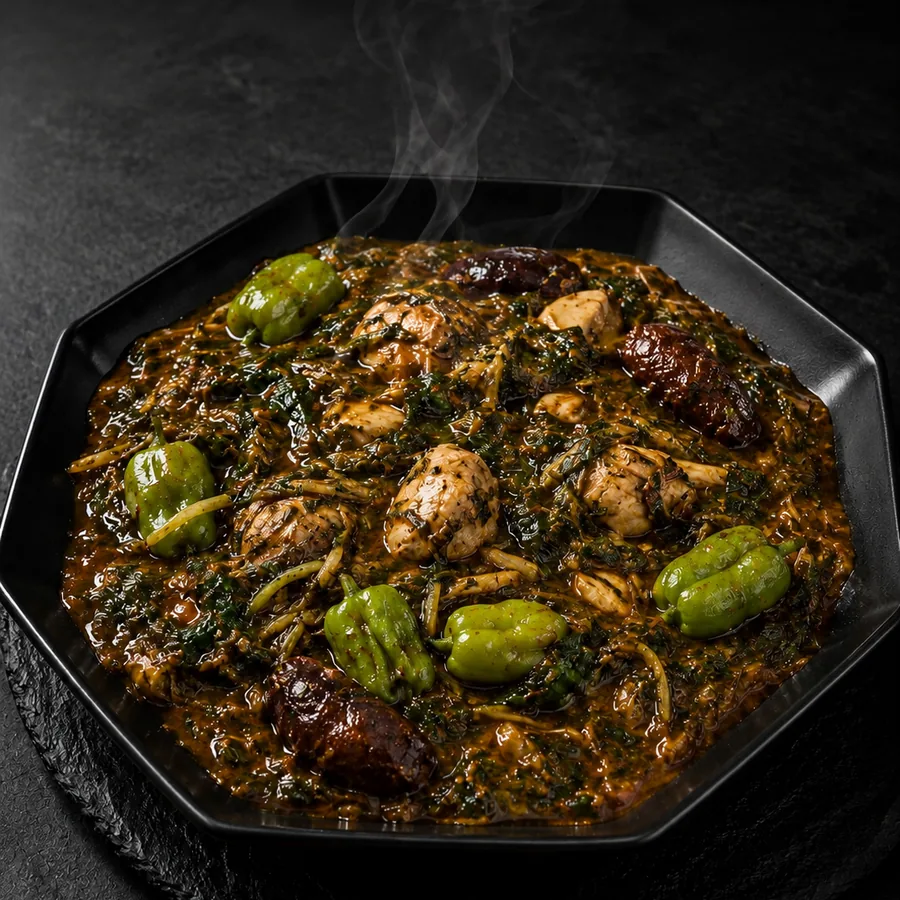
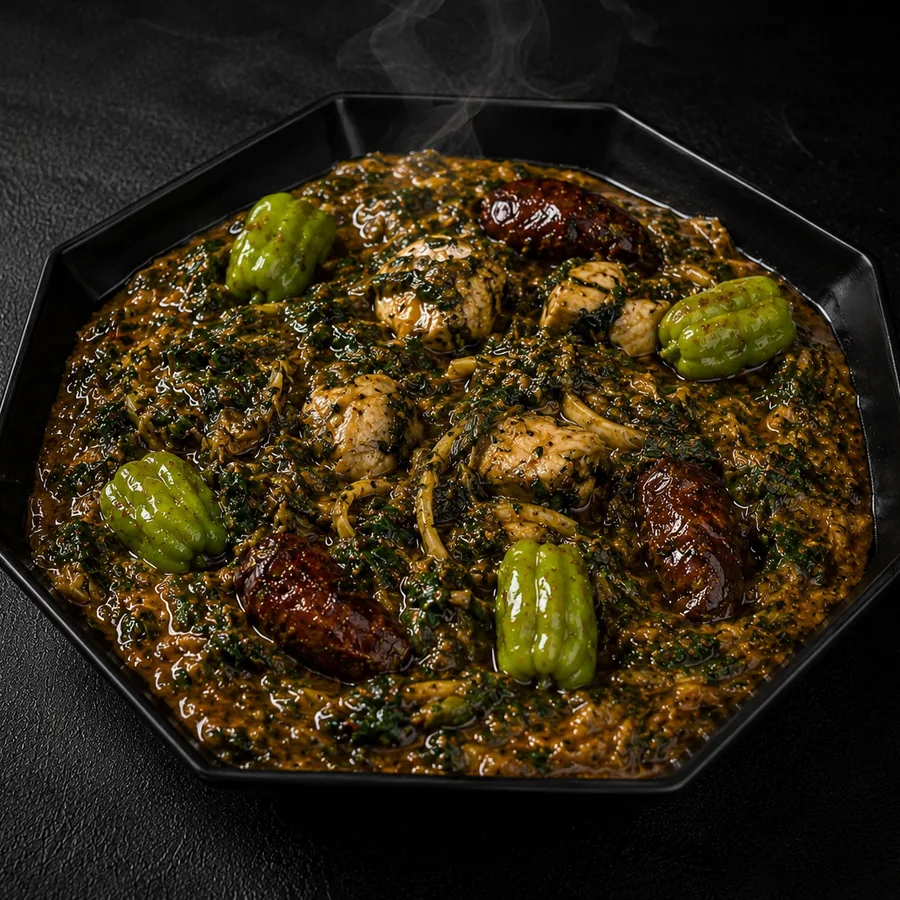
fix(braise): le krinkrin du heros gardait une dalle de table sous l'assiette
Mongazi : « elle a mal ete decoupee au niveau de la heros section ».

CE QUE C'ETAIT. Le detourage gardait 83,3 % de matiere : sous l'assiette, une
large dalle d'ardoise noire partait avec elle, et sur le fond creme du heros ca
faisait un pate sombre. Assiette NOIRE sur table NOIRE, aucun masque ne les
separait. Le plat etait aussi coupe en haut a droite.

⚠ LES DEUX FICHIERS RECUS SONT OPAQUES, aucun n'a de couche alpha. Celui qui
montre un damier est un JPEG : le damier est PEINT DANS LES PIXELS. Le
« PNG » designe est, lui, une photo sur fond noir. Poser l'un ou l'autre tel
quel aurait mis un damier gris ou un carre noir dans le heros.

LA PLANCHE COMPARATIVE, comme les deux outils l'exigent — quatre decoupes,
deux sources x deux modeles :

  · fond noir + birefnet / isnet : le BORD NOIR DE L'ASSIETTE disparait, il ne
    reste que la masse de sauce. Mauvais sujet.
  · damier + birefnet / isnet : assiette entiere, bord compris. Mesure : une
    seule tache connexe, aucun ilot detache >200 px, bords identiques au zoom.

Les deux se valent sur le damier : on garde `isnet`, la conclusion deja ecrite
dans `_damier.py` pour les sources en damier, pour que les cinq assiettes
soient decoupees de la meme main.

L'EXCEPTION DU KRINKRIN TOMBE. Il venait d'une source a part pour une seule
raison : sa version detouree du 19/08 etait RECADREE TROP SERRE. La nouvelle
est correctement cadree, donc il rejoint les trois autres. Et la rustine
[…]

diff --git a/clients/09-au-braise-dor/_outils/_photos_sauces.py b/clients/09-au-braise-dor/_outils/_photos_sauces.py
@@ -29,6 +29,7 @@ la maison porte trois vignettes imprimées, et la FORME DE L'ASSIETTE concorde :
 gombo octogonale, feuille hexagonale, krinkrin octogonale sur ardoise.
 """
 import os
+import subprocess
 import sys
 
 from PIL import Image
@@ -48,10 +49,25 @@ PHOTOS = [
     # désormais des fichiers que la maison a détourés elle-même, traités par
     # `_damier.py`. Laisser True ici les écraserait silencieusement à la
     # prochaine régénération — et on retrouverait les découpes sans assiette.
-    ("sc-gombo", "2026-08-19-sauce-gombo.png", False),
-    ("sc-krinkrin", "2026-08-19-sauce-krinkrin.png", False),
-    ("sc-feuille", "2026-08-19-sauce-feuille.png", False),
-    ("sc-graine", "2026-08-19-sauce-graine.png", False),
+    # (slug, fichier, faire_le_heros, refaire_le_carre)
+    # ⚠ `refaire_le_carre=False` N'EST PAS UN OUBLI. Le carré automatique se
+    #    centre sur le masque avec 6 % de marge : sur `sc-graine` il coupe TOUT
+    #    LE BORD DU BOL et il ne reste qu'une texture jaune, sans vaisselle —
+    #    la carte du menu en ligne, elle, montre le bol entier. Vu à l'œil le
+    #    2026-08-26 en comparant les deux. `sc-feuille` change aussi de cadre
+    #    sans que personne l'ait demandé.
+    #    Ces deux cartes-là sont donc GELÉES : elles ne se régénèrent plus.
+    #    Sans ce drapeau, la prochaine exécution les écrasait en silence — et
+    #    c'est précisément ce qui vient d'arriver, parce que le script mourait
+    #    jusqu'ici avant de les atteindre.
+    ("sc-gombo", "2026-08-19-sauce-gombo.png", False, True),
+    ("sc-feuille", "2026-08-19-sauce-feuille.png", False, False),
+    ("sc-graine", "2026-08-19-sauce-graine.png", False, False),
+    # ⚠ Krinkrin refait le 2026-08-26 : la maison a renvoyé la même sauce en
+    #    1254 px sur fond noir, plus nette et mieux éclairée que la photo de
+    #    2026-08-19 dont venait l'ancien carré. Le héros, lui, vient toujours
+    #    du fichier détouré par la maison — d'où le False.
+    ("sc-krinkrin", "2026-08-26-sauce-krinkrin-v2.png", False, True),
 ]
 
 
@@ -69,7 +85,8 @@ def carre_autour(src, masque, marge=0.06):
     return src.crop((g, h, g + cote, h + cote))
 
 
-def main():
+def une(slug, fichier, faire_le_heros, refaire_le_carre=True):
+    """UNE photo, UN processus. Voir `main()` pour le pourquoi."""
     # ⚠ birefnet ICI, isnet POUR LES BOLS. Ce n'est pas une préférence, c'est
     # une planche comparative (2026-08-19) : sur ces photos-là — assiettes
     # NOIRES sur fond NOIR — isnet garde une tache de vapeur pleine au-dessus
@@ -78,41 +95,63 @@ def main():
     # de `_detoure_plats.py`, c'est exactement l'inverse.
     # → Refaire la planche à chaque nouveau lot de photos, ne pas présumer.
     session = new_session("birefnet-general")
-    for slug, fichier, faire_le_heros in PHOTOS:
-        src = os.path.join(PARTAGE, fichier)
-        if not os.path.exists(src):
-            sys.exit("⛔ introuvable : " + src)
-        origine = Image.open(src).convert("RGB")
+    src = os.path.join(PARTAGE, fichier)
+    if not os.path.exists(src):
+        sys.exit("⛔ introuvable : " + src)
+    origine = Image.open(src).convert("RGB")
 
-        decoupe = remove(origine, session=session, post_process_mask=True)
-        alpha = decoupe.getchannel("A")
-        bas, haut = alpha.getextrema()
-        if haut < 250 or bas > 5:
-            sys.exit("⛔ %s : alpha de %d à %d, le détourage a échoué." % (slug, bas, haut))
+    decoupe = remove(origine, session=session, post_process_mask=True)
+    alpha = decoupe.getchannel("A")
+    bas, haut = alpha.getextrema()
+    if haut < 250 or bas > 5:
+        sys.exit("⛔ %s : alpha de %d à %d, le détourage a échoué." % (slug, bas, haut))
 
-        # 1. la carte : carré, opaque, centré sur l'assiette
+    # 1. la carte : carré, opaque, centré sur l'assiette
+    fc = os.path.join(CARTE, slug + ".webp")
+    if refaire_le_carre:
         car = carre_autour(origine, alpha).resize((900, 900), Image.LANCZOS)
-        fc = os.path.join(CARTE, slug + ".webp")
         car.save(fc, "WEBP", quality=82, method=6)
+        etat = "carte %3d Ko 900x900" % (os.path.getsize(fc) // 1024)
+    else:
+        etat = "carte GELEE, laissee telle quelle"
 
-        if not faire_le_heros:
-            print("%-12s carte %3d Ko %dx%d   (héros : voir _damier.py)"
-                  % (slug, os.path.getsize(fc) // 1024, car.width, car.height))
-            continue
+    if not faire_le_heros:
+        print("%-12s %s   (héros : voir _damier.py)" % (slug, etat))
+        return
 
-        # 2. le héros : détouré, RGBA
-        det = decoupe.crop(alpha.getbbox())
-        det.thumbnail((1200, 1200), Image.LANCZOS)
-        fp = os.path.join(PLATS, slug + ".webp")
-        det.save(fp, "WEBP", quality=94, alpha_quality=100, exact=True)
+    # 2. le héros : détouré, RGBA
+    det = decoupe.crop(alpha.getbbox())
+    det.thumbnail((1200, 1200), Image.LANCZOS)
+    fp = os.path.join(PLATS, slug + ".webp")
+    det.save(fp, "WEBP", quality=94, alpha_quality=100, exact=True)
 
-        print("%-12s carte %3d Ko %dx%d   héros %3d Ko %dx%d"
-              % (slug, os.path.getsize(fc) // 1024, car.width, car.height,
-                 os.path.getsize(fp) // 1024, det.width, det.height))
+    print("%-12s %s   héros %3d Ko %dx%d"
+          % (slug, etat, os.path.getsize(fp) // 1024, det.width, det.height))
+
+
+def main():
+    # ⚠ UNE PHOTO, UN PROCESSUS. Ce script gardait une seule session rembg
+    # pour tout le lot : il mourait en **code 137 (tué faute de mémoire)** dès
+    # la DEUXIÈME photo, après avoir écrit la première sans se plaindre. On
+    # croyait donc que le lot était passé, alors qu'une seule image l'était.
+    # Trouvé le 2026-08-26 en régénérant le krinkrin ; c'est la même fuite
+    # d'onnxruntime que celle notée chez Hillary le 2026-08-20. Le seul
+    # remède qui tienne est de rendre la mémoire au système : on ressort.
+    for slug, fichier, faire_le_heros, refaire in PHOTOS:
+        r = subprocess.run([sys.executable, os.path.abspath(__file__), "--une",
+                            slug, fichier, "1" if faire_le_heros else "0",
+                            "1" if refaire else "0"])
+        if r.returncode != 0:
+            sys.exit("⛔ %s : le détourage s'est arrêté (code %d)%s"
+                     % (slug, r.returncode,
+                        " — tué faute de mémoire" if r.returncode == 137 else ""))
 
     print("\n⚠ REGARDER LE DÉTOURAGE SUR FOND CRÈME (#ede9e3), jamais sur du blanc :")
     print("   un halo clair ne se voit que sur le fond où l'image sera posée.")
 
 
 if __name__ == "__main__":
-    main()
+    if len(sys.argv) > 1 and sys.argv[1] == "--une":
+        une(sys.argv[2], sys.argv[3], sys.argv[4] == "1", sys.argv[5] == "1")
+    else:
+        main()

diff --git a/clients/09-au-braise-dor/_outils/_damier.py b/clients/09-au-braise-dor/_outils/_damier.py
@@ -45,19 +45,25 @@ LOTS = [
     ("sc-gombo", "2026-08-19-sauce-gombo-detoure.png", False),
     ("sc-feuille", "2026-08-19-sauce-feuille-detoure.png", False),
     ("sc-graine", "2026-08-19-sauce-graine-detoure.png", False),
-    # ⚠ LE KRINKRIN VIENT D'UNE AUTRE SOURCE, ET C'EST VOULU.
-    # Sa version détourée est RECADRÉE TROP SERRÉ : le disque d'ardoise sous
-    # l'assiette sort du cadre à gauche, à droite et en bas, et l'assiette
-    # elle-même touche les bords. Mongazi l'a vu en ligne : « c'est coupé sur
-    # le côté droit, ça doit être bien circulaire comme pour les autres. »
-    # Aucun masque ne rend des pixels qui n'existent pas. La PREMIÈRE photo
-    # (fond noir, `-krinkrin.png`) est, elle, bien cadrée : l'assiette y tient
-    # entière avec de la marge. On repart donc de celle-là.
-    # ⚠ Et sur celle-là, isnet transforme le panache de vapeur en tache noire
-    # pleine au-dessus de l'assiette : on coupe les lignes du haut tant que
-    # leur largeur reste sous 28 % de la largeur maximale — la vapeur est
-    # étroite, l'assiette est large.
-    ("sc-krinkrin", "2026-08-19-sauce-krinkrin.png", True),
+    # ⚠ LE KRINKRIN REJOINT LES AUTRES LE 2026-08-26, et l'exception tombe.
+    # Il venait d'une source à part pour une seule raison : sa version
+    # détourée de 2026-08-19 était RECADRÉE TROP SERRÉ — l'assiette touchait
+    # les bords et l'ardoise sortait du cadre à gauche, à droite et en bas.
+    # On repartait donc de la photo sur fond noir, où l'assiette tient
+    # entière… mais assiette NOIRE sur table NOIRE : le masque gardait une
+    # dalle de table sous le plat (16,7 % de transparent seulement), et sur le
+    # fond crème du héros ça faisait un pâté sombre. C'est le défaut que
+    # Mongazi a signalé : « elle a mal été découpée au niveau de la héros ».
+    # Il a renvoyé le plat détouré par ses soins, cette fois CORRECTEMENT
+    # CADRÉ. La raison de l'exception n'existe plus.
+    # ⚠ Et la rustine anti-vapeur ne sert plus : mesuré sur cette source, il
+    # n'y a que 9 lignes étroites au-dessus de l'assiette et leur largeur
+    # croît régulièrement (10, 51, 86, 116…) — c'est le coin de l'octogone qui
+    # s'élargit, pas un panache transformé en tache.
+    # ⚠ Le fichier porte l'extension .jpg et ce n'est pas une erreur : le
+    # damier arrive PEINT DANS LES PIXELS, sans canal alpha, et cette fois
+    # aplati en JPEG. On ne le renomme pas en .png pour faire joli.
+    ("sc-krinkrin", "2026-08-26-sauce-krinkrin-detoure.jpg", False),
 ]
 
 

diff --git a/clients/09-au-braise-dor/_outils/_qc.py b/clients/09-au-braise-dor/_outils/_qc.py
@@ -321,8 +321,33 @@ def main():
                     r = contraste(texte, fond)
                     dire(r >= 4.5, "[héros %s] on lit « Ajouter au panier » : %.1f:1"
                          % (nom, r))
-                dire(b["opacite"] >= 0.99,
-                     "[héros %s] il est à pleine opacité : %.2f" % (nom, b["opacite"]))
+                # ⚠ ON ÉCHANTILLONNE, ON NE PHOTOGRAPHIE PAS. Le héros change
+                #    de sauce en permanence et le bouton traverse un fondu de
+                #    ~750 ms à chaque passage : un relevé unique tombait dedans
+                #    environ une fois sur quatre et déclarait le bouton
+                #    invisible. Mesuré le 2026-08-26, 63 relevés en 16 s :
+                #    min 0,00, MAX 1,00, médiane 1,00, pleine opacité 71 % du
+                #    temps. Le site allait bien, le contrôle mentait — et il
+                #    mentait déjà sur `main`, les deux rouges y étaient.
+                #    Ce qu'on veut savoir tient en une phrase : le bouton
+                #    DEVIENT-IL pleinement visible ? On regarde donc le maximum
+                #    sur un cycle complet. Le défaut d'origine
+                #    (`clearProps:"all"` qui vidait le style et laissait le
+                #    bouton transparent POUR TOUJOURS) reste attrapé : dans ce
+                #    cas-là le maximum ne monte jamais.
+                ops = []
+                for _ in range(28):
+                    o = pg.evaluate("""() => {
+                        const e = [...document.querySelectorAll("button")]
+                            .find(x => /Ajouter au panier/.test(x.textContent || ""));
+                        return e ? parseFloat(getComputedStyle(e).opacity) : null; }""")
+                    if o is not None:
+                        ops.append(o)
+                    pg.wait_for_timeout(250)
+                haut = max(ops) if ops else 0
+                dire(haut >= 0.99,
+                     "[héros %s] il atteint la pleine opacité : %.2f (max sur %d relevés)"
+                     % (nom, haut, len(ops)))
 
             # ── 3 ter. LA DEUXIÈME LIGNE DU TITRE EST LA PLUS GROSSE ──────
             # ⚠ C'est LA signature du héros : une ligne fine et espacée, puis
